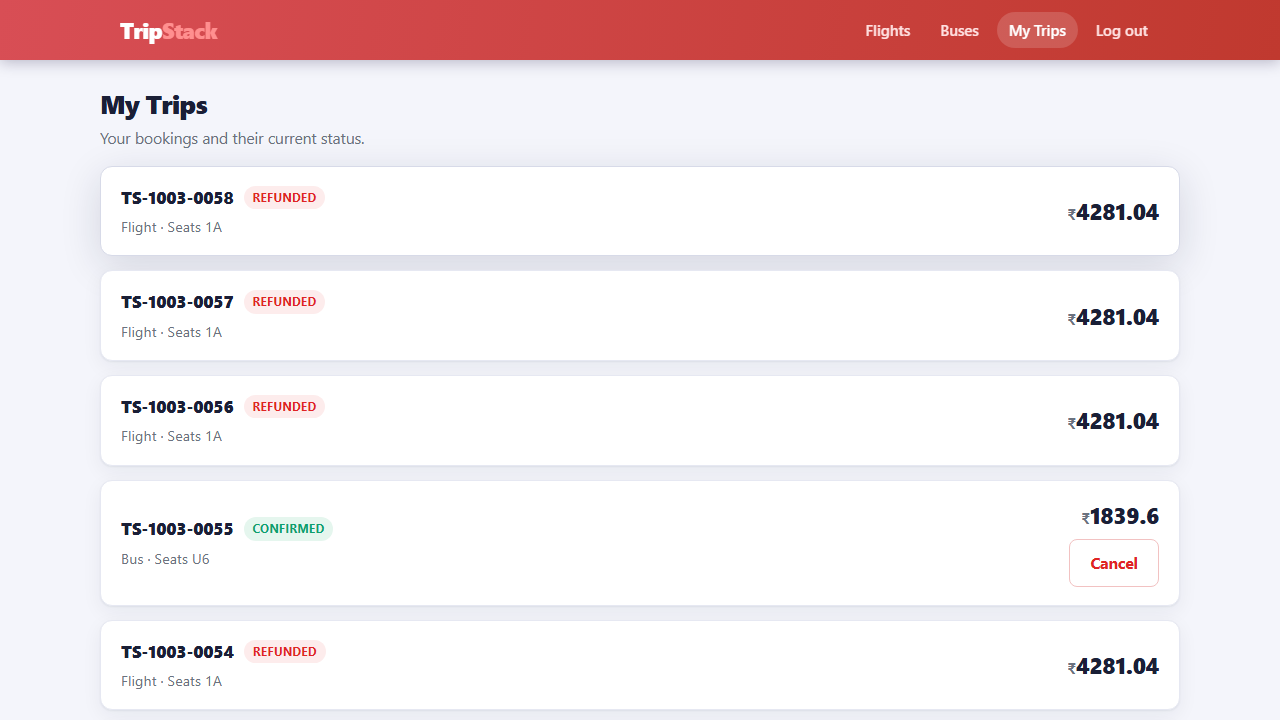
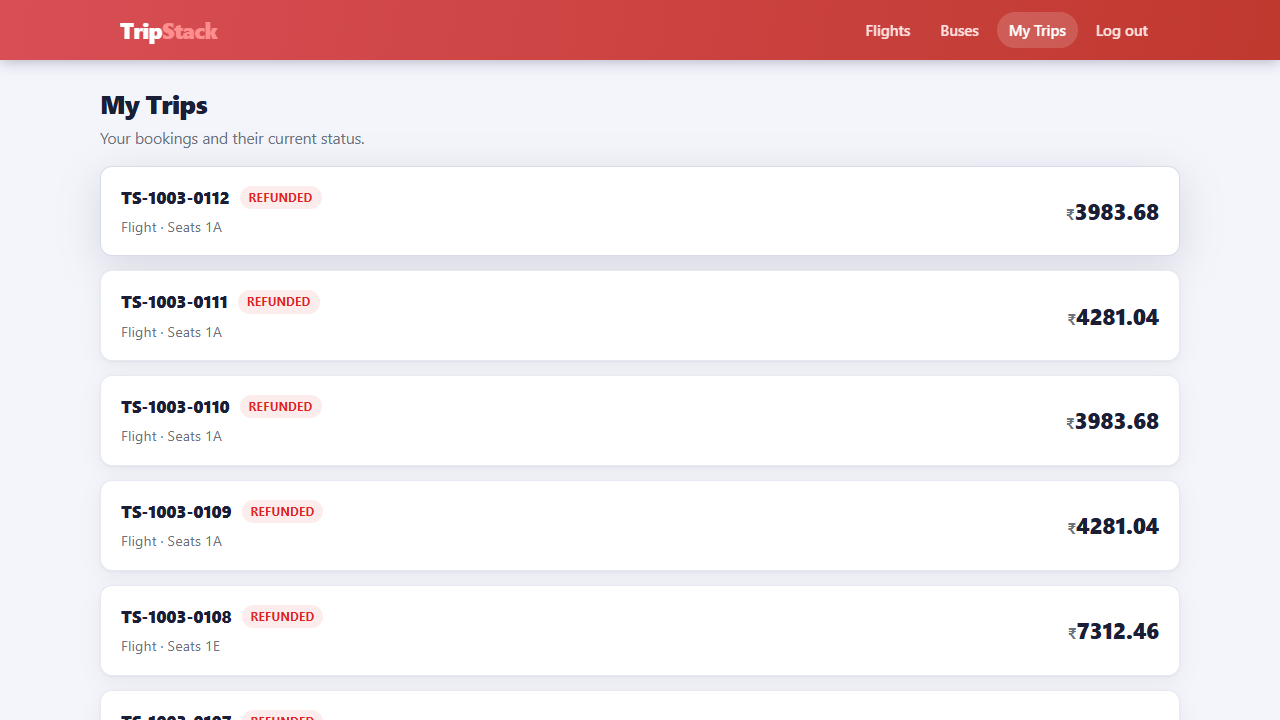
CI updation

diff --git a/UI/tests/MainTest.spec.ts b/UI/tests/MainTest.spec.ts
@@ -21,9 +21,9 @@ test('Booking a Flight', async ({ page, log, evidence }) => {
 
   const user = "Carol"
 
-  const departure = "BLR"
+  const departure = "DEL"
 
-  const destination = "GOI"
+  const destination = "BLR"
 
   const Cabin = "Business"
 
@@ -168,17 +168,33 @@ test('Booking a Flight', async ({ page, log, evidence }) => {
   })
 //////////////////////////////////////////////////////////////////////////////
 
-    // test('Booking a Flight using Flow', async ({ page, log, evidence }) => {
+    test('Booking a Flight Multicity', async ({ page, log, evidence }) => {
 
-    //   await page.goto('/', {waitUntil: "domcontentloaded"});
+      await page.goto('/', {waitUntil: "domcontentloaded"});
 
-    //     var loginpage = new LoginPage(page)
+        var loginpage = new LoginPage(page)
 
-    //     const user = "Carol"
+        const user = "Carol"
 
-    //     await loginpage.login(userlogindata[user].email, getPassword())
+        await loginpage.login(userlogindata[user].email, getPassword())
 
-    //     let ticketbookingflow  = new TicketBookFlow(page,log,evidence,test,expect)
+        let ticketbookingflow  = new TicketBookFlow(page,log,evidence,test,expect)
 
-    //     ticketbookingflow.bookTicket(user,"GOI","PUN")
-    // })
+        log.info("Booking first part of trip")
+
+        var tripId1 = await ticketbookingflow.bookTicket(user,"BLR","GOI")
+
+        evidence.tripId1 = tripId1
+
+        log.info("Booking second part of trip")
+
+        await page.goto('/')
+
+        var tripId2 = await ticketbookingflow.bookTicket(user,"GOI","PUN")
+
+        evidence.tripId2 = tripId2
+
+        await ticketbookingflow.cancelTrip(tripId1)
+
+        await ticketbookingflow.cancelTrip(tripId2)
+    })

diff --git a/UI/flows/TicketBookFlow.ts b/UI/flows/TicketBookFlow.ts
@@ -28,7 +28,7 @@ export class TicketBookFlow {
 
     }
 
-    async bookTicket(user:keyof typeof usercheckoutdata,departure : string, destination : string){
+    async bookTicket (user:keyof typeof usercheckoutdata,departure : string, destination : string):Promise<string>{
         await this.flighthome.setDepatureLocation(departure)
         await this.flighthome.setDestinationLocation(destination)
 
@@ -117,6 +117,13 @@ export class TicketBookFlow {
         this.log.info("Flight Booked Successfully")
 
 
+        return tripId
+    }
+
+
+
+    async cancelTrip(tripId:string){
+
     this.log.info("Flight Cancellation Process Initiated")
 
     const tripCard = await this.page.locator(`[data-id="trip-${tripId}"]`);
@@ -127,12 +134,14 @@ export class TicketBookFlow {
 
     this.log.info("Flight Cancelled Successfully")
 
+    await this.page.reload;
+
     await this.page.screenshot({ 
             path: 'screenshots/flight-cancelled.png'
         });
 
     
-        await this.test.info().attach("Flight Booked Proof", {
+        await this.test.info().attach("Flight Cancelled Proof", {
             path: "screenshots/flight-cancelled.png",
             contentType: "image/png"
         });

diff --git a/UI/pages/PaymentPage.ts b/UI/pages/PaymentPage.ts
@@ -28,8 +28,16 @@ export class PaymentPage{
         await this.page.getByRole('button', { name: 'Pay ₹' }).click();
     }
 
-    async getTripId(){
-        return await this.page.locator('[data-id="pnr"]').textContent();
+    async getTripId():Promise<string>{
+       var tripId =  await this.page.locator('[data-id="pnr"]').textContent();
+
+       
+    if (tripId === null) {
+            throw new Error('Trip ID not found');
+        }
+
+    return tripId;
+
     }
 
 

diff --git a/UI/playwright.config.ts b/UI/playwright.config.ts
@@ -15,7 +15,7 @@ export default defineConfig({
   timeout: 2 * 60 * 1000,
   testDir: './tests',
   /* Run tests in files in parallel */
-  fullyParallel: true,
+  fullyParallel: false,
   /* Fail the build on CI if you accidentally left test.only in the source code. */
   forbidOnly: !!process.env.CI,
   /* Retry on CI only */

diff --git a/UI/Config/Secrets.ts b/UI/Config/Secrets.ts
@@ -3,7 +3,7 @@ import * as path from 'path';
 import * as dotenv from 'dotenv';
 
 export  function  getPassword(): string {
-      const envKey = `PASSWORD`;
+      const envKey = `ARAVIND_PASSWORD`;
 
         try {
             const envFilePath = path.resolve(process.cwd(),'.env'); 

diff --git a/API/Week7Assessment/src/test/java/ust/sdet/tests/SecurityNegativeTest.java b/API/Week7Assessment/src/test/java/ust/sdet/tests/SecurityNegativeTest.java
@@ -1,0 +1,4 @@
+package ust.sdet.tests;
+
+public class SecurityNegativeTest {
+}
